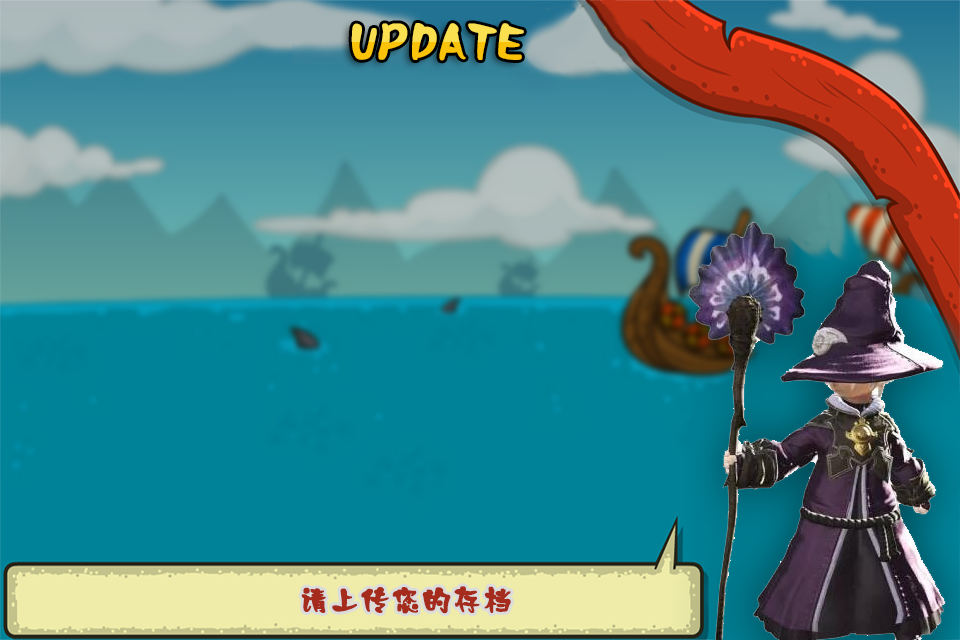
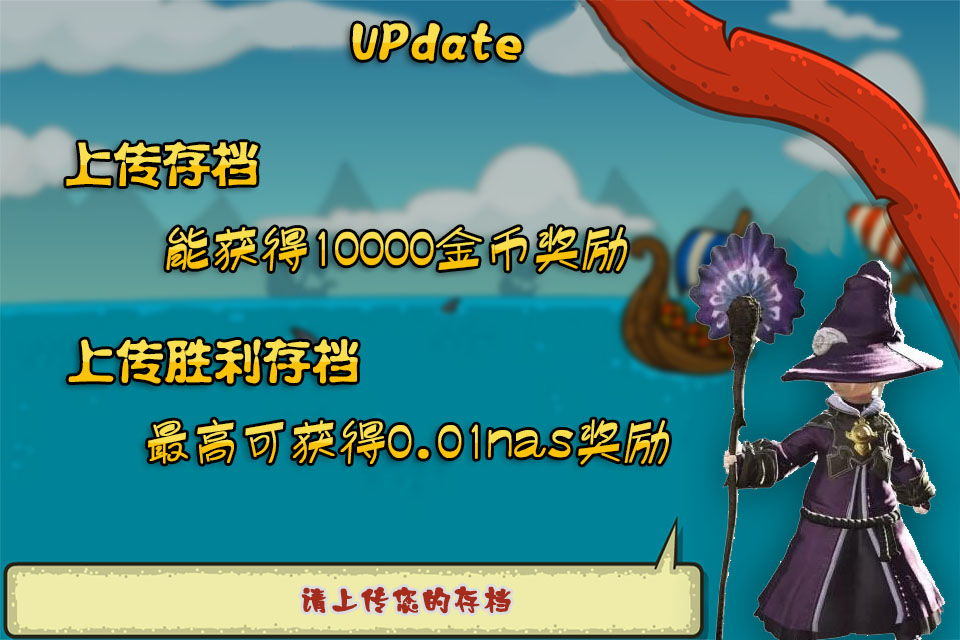
增加上传存档返nas功能

diff --git a/js/blockchain.js b/js/blockchain.js
@@ -6,14 +6,14 @@ NebPay = require("nebpay");
 nebPay = new NebPay();
 var nebConfigArr = {
     mainnet: {
-        contractAddress: "n1jps9rYGfU75XUMsuoW7zkNkbSMqK99QoY",
[1 lines of base64/hex data omitted]
+        contractAddress: "n1iAaYC3HDQ1fAcLjQFgZFNqnMjNUdppnqe",
[1 lines of base64/hex data omitted]
         host: "https://mainnet.nebulas.io",
         payhost: "https://pay.nebulas.io/api/mainnet/pay"
     },
     testnet: {
-        contractAddress: "n1qB2A2xph8ZSJm9WYjMmAPrj9479vVwR16",
[1 lines of base64/hex data omitted]
+        contractAddress: "n1q4LQzpsBrPcn9ihYeUtMGnHhQcKH1UFok",
[1 lines of base64/hex data omitted]
         host: "https://testnet.nebulas.io",
         payhost: "https://pay.nebulas.io/api/pay"
     }

diff --git a/game.js b/game.js
@@ -5288,7 +5288,7 @@ var saveData = function (data) {
 }
 
 var saveDataWin = function (data) {
-    nebPayCall("saveWin", [data], 0, function (ret) {
+    nebPayCall("saveWin", [data], 0.001, function (ret) {
         console.log("saveWin begin", ret);
     }, function (ret) {
         console.log("saveWin2", ret);
